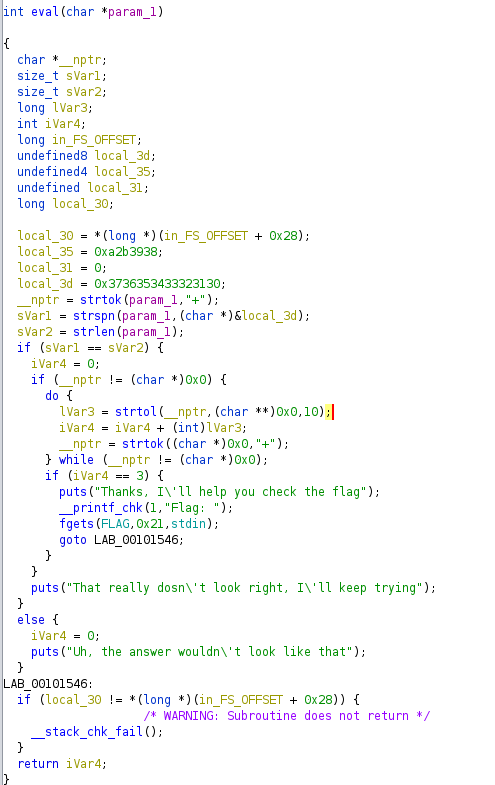
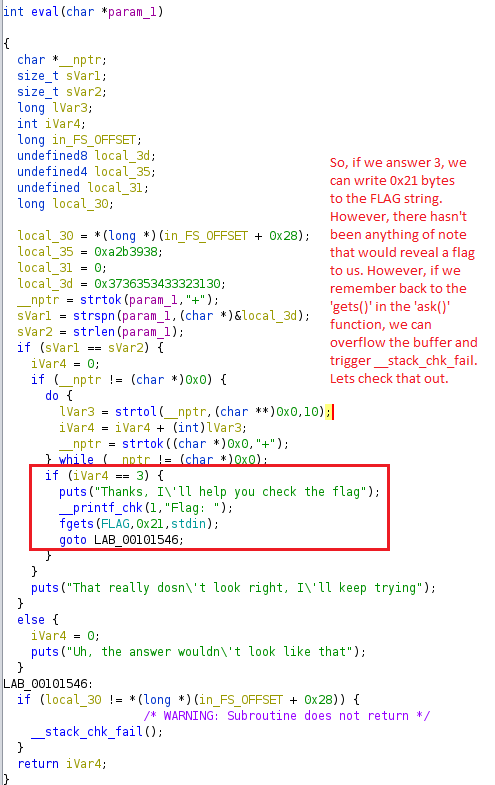
y

Changed region(s): [[0.6667, 0.1834, 0.9697, 0.4892], [0.0606, 0.5809, 0.7879, 0.7032]]

diff --git a/wolvCTF/wolvCTF.md b/wolvCTF/wolvCTF.md
@@ -7,43 +7,31 @@ A great set of challenges. I didn't have much time this weekend, so I tried my h
 
 * PICTURE HERE
 
+### Examine the code
+
 The challenge includes one binary file and is reminiscent of an old linscence key crack. Lets download and examine with Ghidra. 
 
 * If you're not familiar with Ghidra, it's a sick NSA tool used to decompile binaries. [Check it out on Github](https://github.com/NationalSecurityAgency/ghidra)
 
-### Examine the code
+Here's the decompiled code:
 
+![flag](./main.png)
 
-Now that we have a picture of what is happening within the file, let's run it through the [radare2 (r2)](https://github.com/radareorg/radare2) debugger and watch it in execution. 
+Main calls ask()...
 
-Let's start the binary using r2 and set a breakpoint at the flag xor loop in __stack_chk_fail. 
+![flag](./ask.png)
 
-Ok, when it asks for input, we're going to send the line, 'wctf{}'. Why? Well this is WolvCTF and the flag format begins with 'wctf{', thus we can safely assume the decryptor will successfully process the first 5 characters and fail on the 6th. We can watch the first 5 characters run through the flag verification loop to verify our what we know. 
+Ask reads in an unlimited amount of input, then calls eval().
 
-Continue the program, enter 'wctf{}'
+![flag](./eval.png)
 
-Each screenshot is taken when the instruction pointer is on the character verification XOR
+Eval checks the input, if '3' is entered, it'll read in 0x21 bytes to the FLAG buffer, then return Is that all? Really? There needs to be more. Let's check __stack_chk_fail(), as that is the only uncalled function. Remember, if we can read in unlimited bytes, then we can overflow the buffer and trigger the stack check failure. 
 
-SCREENSHOTS HERE
+![flag](./stack_chk2.png)
 
-DESCRIPTION HERE
+Perfect, this is where the magic happens. 
 
-
-
-
-
-
-
-
-
-
-Note this portion of memory; these values are what the program suspects will be the result of continued chain of XORs against the flag characters. Lets make a list of them so we can build a script to perform the XOR chain. 
-
-'''python3
-bytes_of_interest = [0x14,0x17,0x12,0x1d,0x50,0x46,0x5d,0x42,0x41,0x6c,0x33,0x5d,0x5a,0x0e,0x3a,0x6a,0x41,0x40,0x57,0x08,0x34,0x3c,0x0b,0x03,0x34,0x28,0x46,0x5f,0x53,0x10,0x50]
-'''
-
-We must write a script to compute the first XOR, 0x41 ^ 0x36, which resolves to 'w', then XOR the result with the first element of our list above ^^ , then XOR that result with the second element, ... and so on....
+We must write a script to compute the first XOR, 0x41 ^ 0x36, which resolves to 'w', then XOR the result with the first element of the artificial list, then XOR that result with the second element, ... and so on....
 
 Which will look like:
 * 0x41 ^ 0x36  == result1
@@ -57,6 +45,18 @@ Which will look like:
 * 0x63 ^ 0x17 == 0x74 == 't'
 * 0x74 ^ 0x12 == 0x66 == 'f'
 * and so on...
+
+Now that we have a picture of what is happening, let's run it through the [Radare2 (r2)](https://github.com/radareorg/radare2) debugger check out the list of XOR keys in memory. 
+
+Here is the artificial XOR key list in memory; these values are what the program suspects will be the result of continued chain of XORs against the input charaters. 
+ 
+![flag](./list.png)
+
+Lets make a list of them so we can build a script to perform the XOR chain. 
+
+'''python3
+bytes_of_interest = [0x14,0x17,0x12,0x1d,0x50,0x46,0x5d,0x42,0x41,0x6c,0x33,0x5d,0x5a,0x0e,0x3a,0x6a,0x41,0x40,0x57,0x08,0x34,0x3c,0x0b,0x03,0x34,0x28,0x46,0x5f,0x53,0x10,0x50]
+'''
 
 We can write a python3 script to solve:
 
